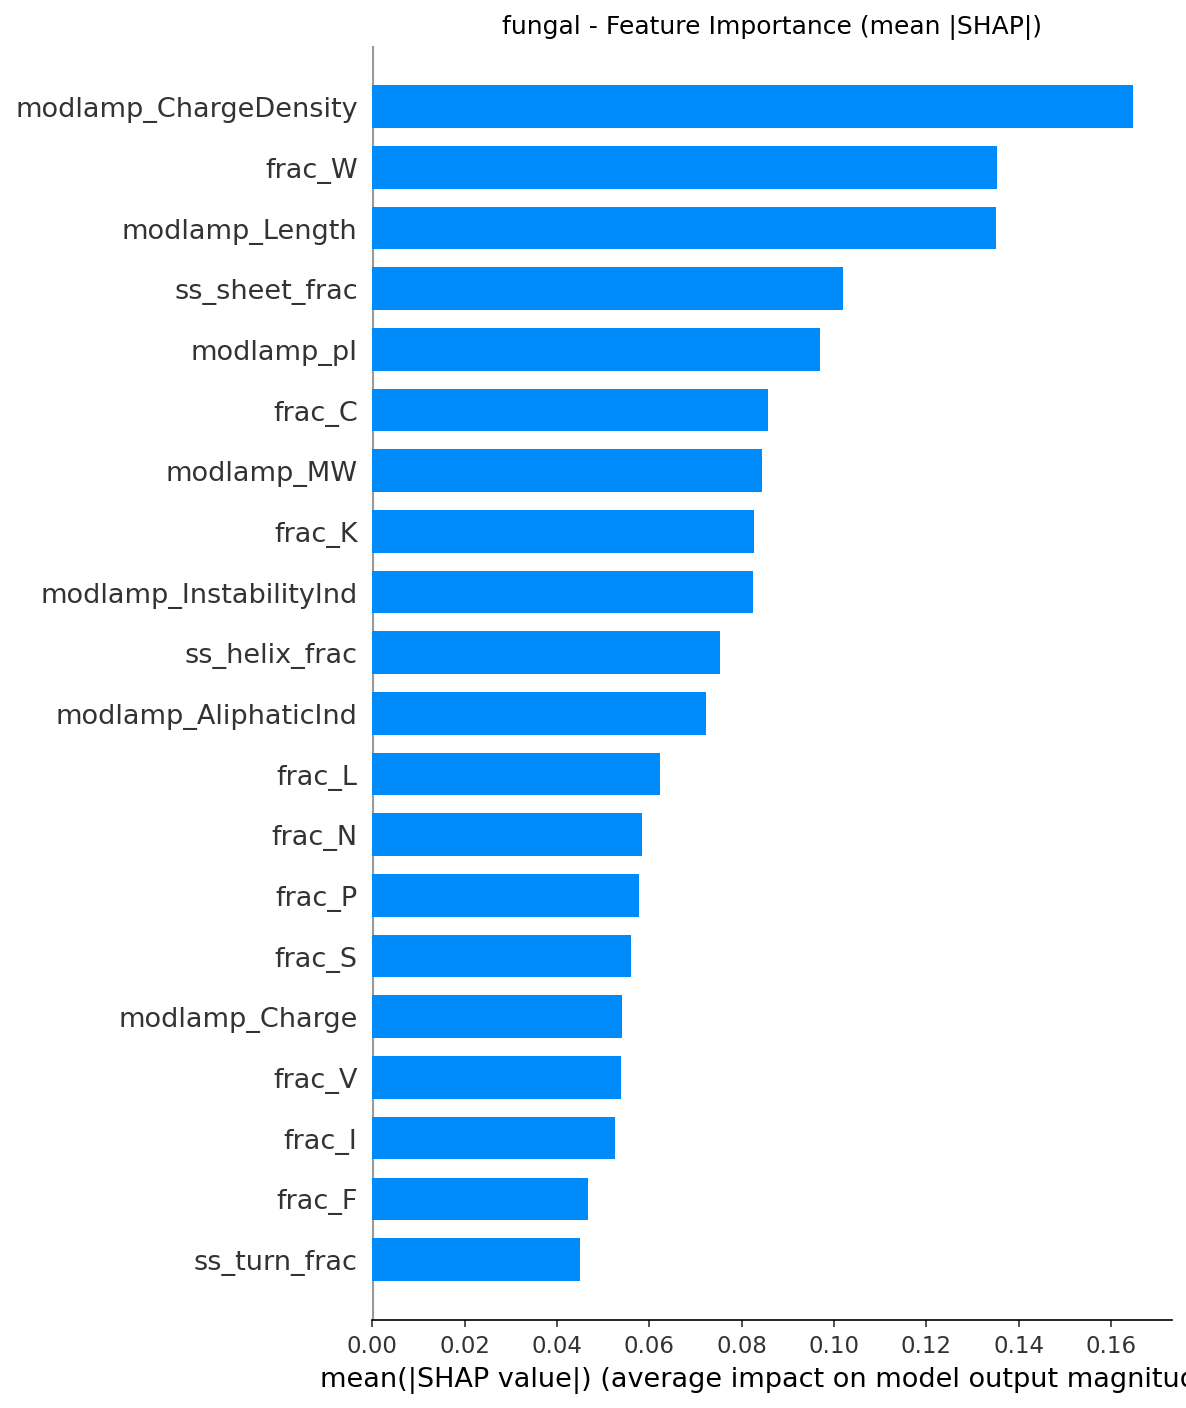
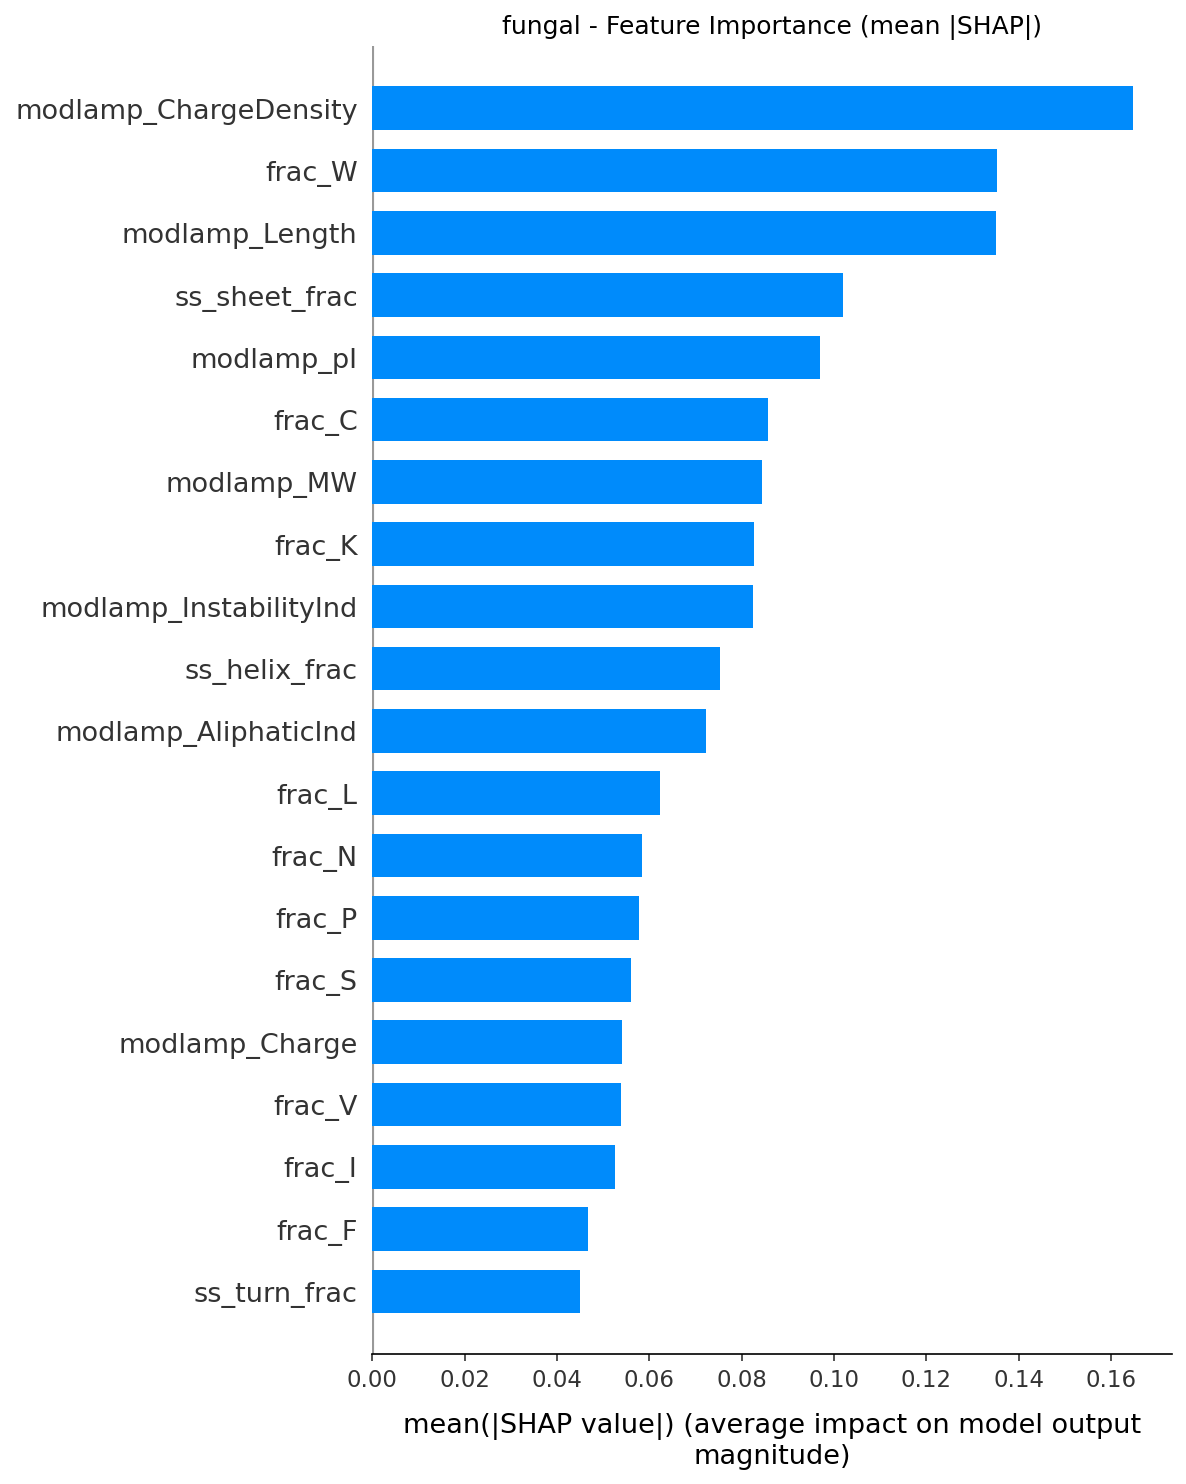
SHAP plot error fixed

diff --git a/Model1-AMP_Class_Classifier/SHAP/perform_shap.py b/Model1-AMP_Class_Classifier/SHAP/perform_shap.py
@@ -30,10 +30,13 @@ for task in ["gram_positive", "gram_negative", "fungal"]:
     shap_values = explainer.shap_values(X_test)
 
     # --- 1. Bar plot: mean |SHAP| per feature, top 20 ---
-    plt.figure()
+    plt.figure(figsize=(14, 7))
     shap.summary_plot(shap_values, X_test, plot_type="bar", max_display=20, show=False)
     plt.title(f"{task} - Feature Importance (mean |SHAP|)")
-    plt.tight_layout()
+    ax = plt.gca()
+    # SHAP sets a long x-axis label; re-apply it with wrapping so it never clips
+    current_xlabel = ax.get_xlabel()
+    ax.set_xlabel(current_xlabel, wrap=True, labelpad=10)
     plt.savefig(f"shap_outputs/{task}_bar.png", dpi=150, bbox_inches="tight")
     plt.close()
 
